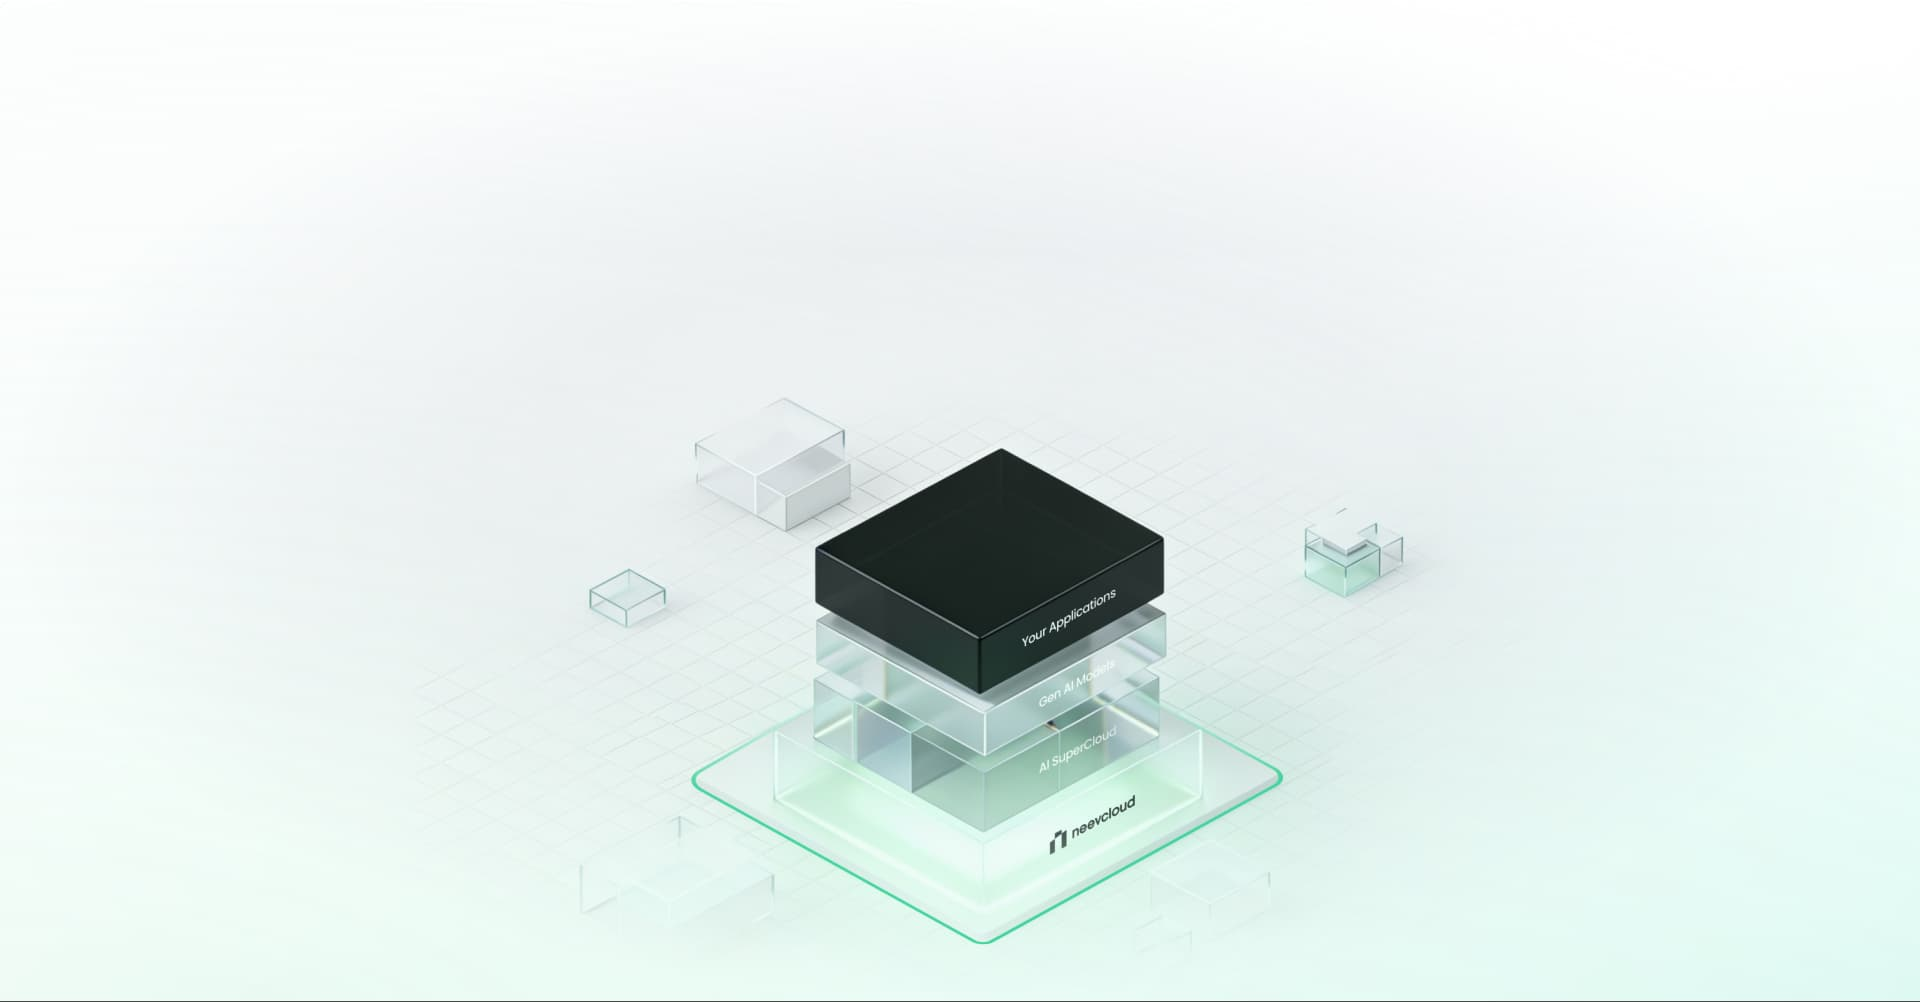
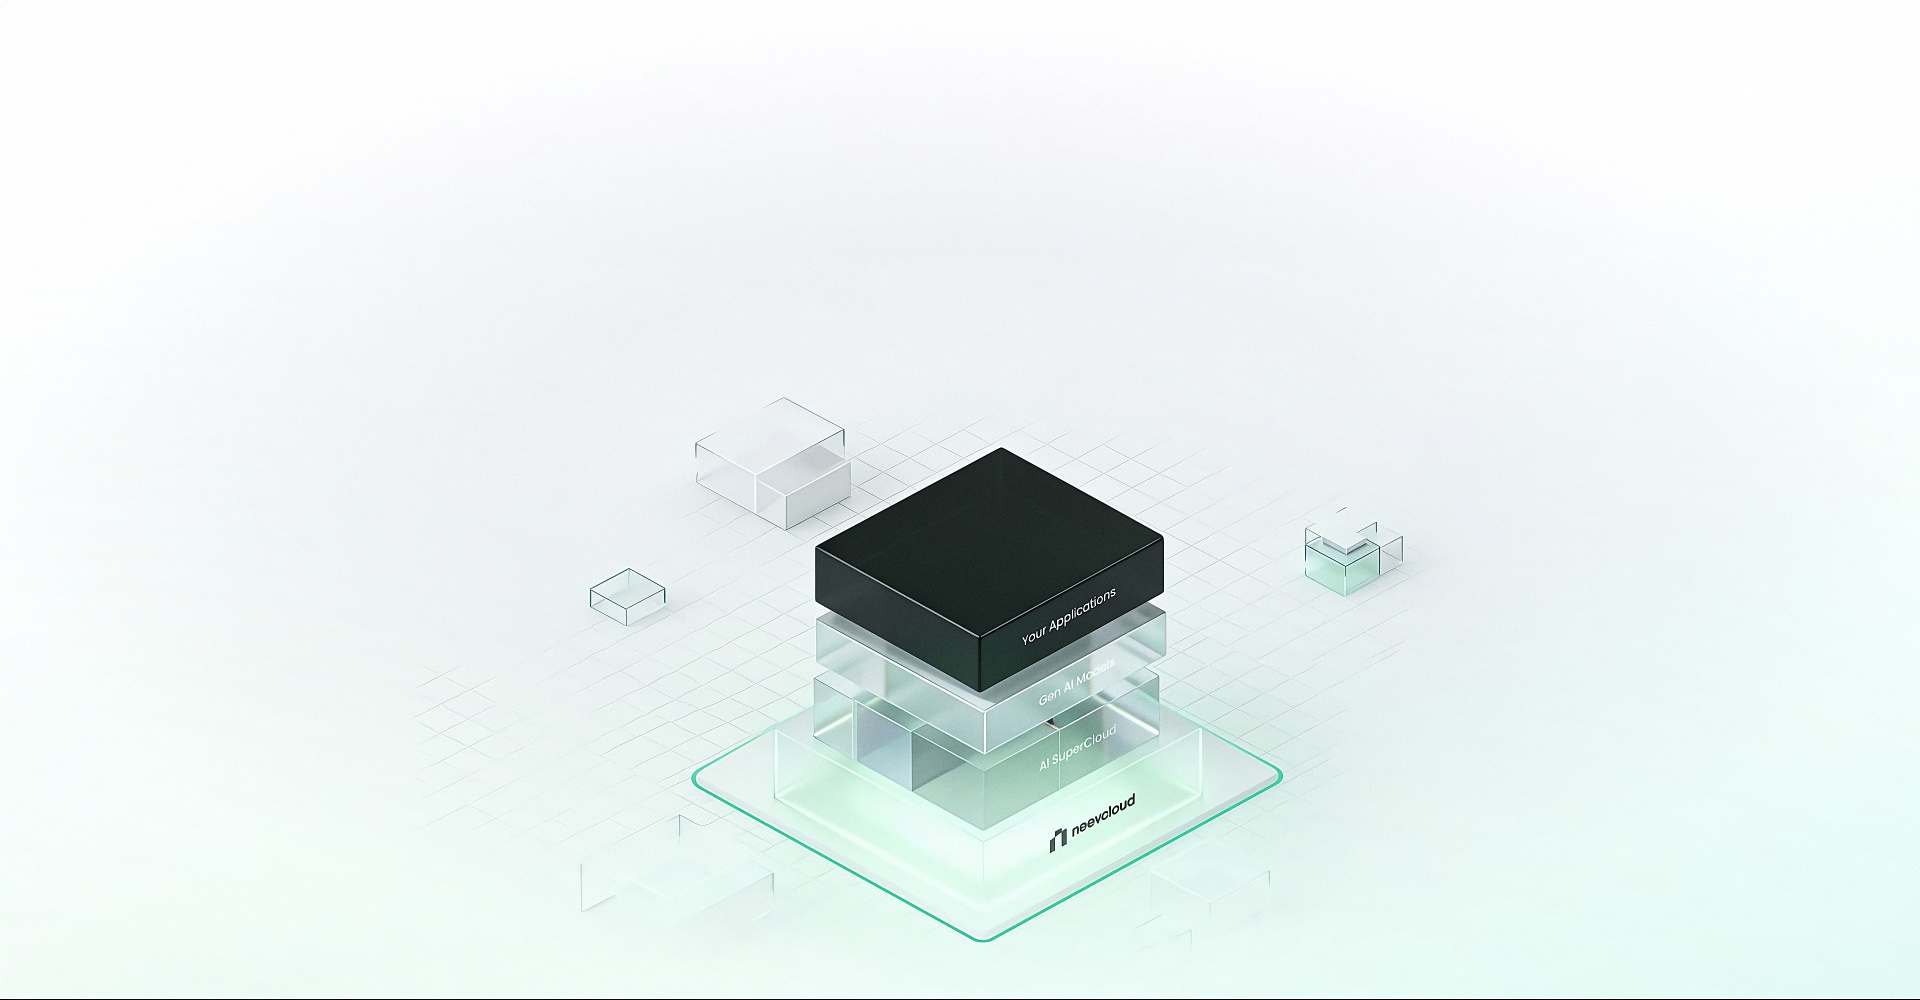
Footer 2026: LLM block left with Follow Us below, cert badges right, heading sizes matched; replace pixelated full-stack card image with cleaned re-render (300KB, artifacts removed)

diff --git a/src/shared/components/footer-2026.tsx b/src/shared/components/footer-2026.tsx
@@ -109,59 +109,65 @@ export default function Footer2026() {
           ))}
         </nav>
 
-        {/* Socials + certifications (left) and LLM explore block (right) */}
+        {/* LLM explore + socials (left) and certifications (right) */}
         <div className="flex flex-col gap-10 lg:flex-row lg:items-end lg:justify-between">
           <div className="flex flex-col gap-8">
-            <ul className="flex list-none items-center gap-5">
-              {FOOTER_SOCIAL_LINKS.map((social) => (
-                <li key={social.label}>
+            <div className="flex flex-col gap-3">
+              <h3 className="text-[14px] font-medium text-white/40">
+                How could I use NeevCloud
+              </h3>
+              <div className="flex flex-col gap-2">
+                {LLM_LINKS.map(({ label, href, icon: LlmIcon }) => (
                   <a
-                    href={social.href}
+                    key={label}
+                    href={href}
                     target="_blank"
                     rel="noopener noreferrer"
-                    aria-label={social.label}
-                    className="grid size-9 place-items-center rounded-md bg-[#7d8590] transition-colors hover:bg-white"
+                    className="flex w-full min-w-[260px] items-center gap-3 rounded-lg border border-white/15 px-4 py-3 text-[15px] text-white/60 transition-colors hover:border-white/35 hover:text-white"
                   >
-                    {/* white source glyphs render black inside the tile */}
-                    {/* eslint-disable-next-line @next/next/no-img-element */}
-                    <img
-                      src={social.icon}
-                      alt=""
-                      aria-hidden
-                      className="size-5 brightness-0"
-                    />
+                    <LlmIcon size={20} aria-hidden />
+                    {label}
                   </a>
-                </li>
-              ))}
-            </ul>
-            {/* eslint-disable-next-line @next/next/no-img-element */}
-            <img
-              src="/icons/iso.svg"
-              alt="AICPA SOC 2, ISO 9001, ISO 27002 and ISO 27018 certifications"
-              loading="lazy"
-              className="h-[62px] w-auto"
-            />
-          </div>
+                ))}
+              </div>
+            </div>
 
-          <div className="flex flex-col gap-3">
-            <h3 className="text-[16px] font-medium text-white">
-              How could I use NeevCloud
-            </h3>
-            <div className="flex flex-col gap-2">
-              {LLM_LINKS.map(({ label, href, icon: LlmIcon }) => (
-                <a
-                  key={label}
-                  href={href}
-                  target="_blank"
-                  rel="noopener noreferrer"
-                  className="flex w-full min-w-[260px] items-center gap-3 rounded-lg border border-white/15 px-4 py-3 text-[15px] text-white/60 transition-colors hover:border-white/35 hover:text-white"
-                >
-                  <LlmIcon size={20} aria-hidden />
-                  {label}
-                </a>
-              ))}
+            <div className="flex flex-col gap-3">
+              <h3 className="text-[14px] font-medium text-white/40">
+                Follow Us
+              </h3>
+              <ul className="flex list-none items-center gap-3">
+                {FOOTER_SOCIAL_LINKS.map((social) => (
+                  <li key={social.label}>
+                    <a
+                      href={social.href}
+                      target="_blank"
+                      rel="noopener noreferrer"
+                      aria-label={social.label}
+                      className="grid size-9 place-items-center rounded-md bg-[#7d8590] transition-colors hover:bg-white"
+                    >
+                      {/* white source glyphs render black inside the tile */}
+                      {/* eslint-disable-next-line @next/next/no-img-element */}
+                      <img
+                        src={social.icon}
+                        alt=""
+                        aria-hidden
+                        className="size-5 brightness-0"
+                      />
+                    </a>
+                  </li>
+                ))}
+              </ul>
             </div>
           </div>
+
+          {/* eslint-disable-next-line @next/next/no-img-element */}
+          <img
+            src="/icons/iso.svg"
+            alt="AICPA SOC 2, ISO 9001, ISO 27002 and ISO 27018 certifications"
+            loading="lazy"
+            className="h-[62px] w-auto self-start lg:self-end"
+          />
         </div>
 
         {/* Giant subtle wordmark watermark, clipped at the bottom edge */}
